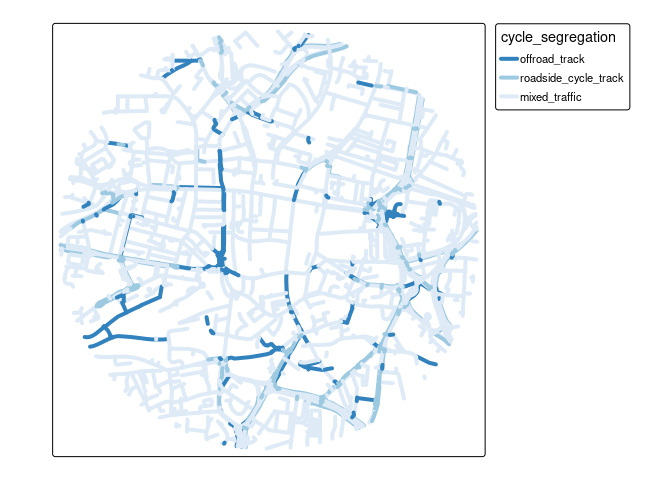
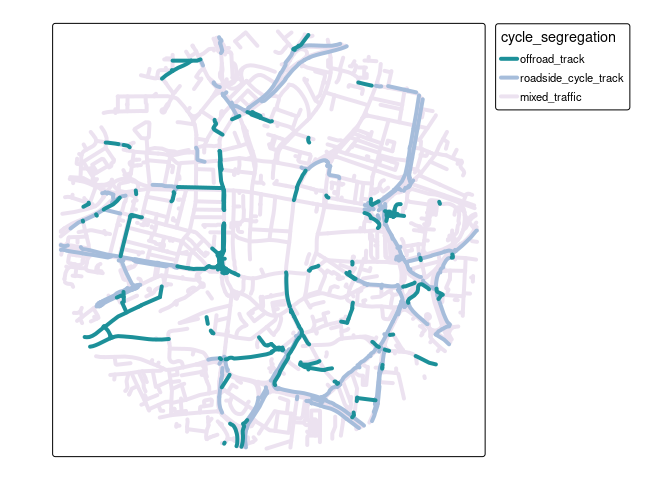
Change default vis settings
See https://github.com/r-tmap/tmap/issues/863 for underlying issue

diff --git a/README.md b/README.md
@@ -21,7 +21,20 @@ library(osmactive)
 
 ``` r
 library(dplyr)
+#> 
+#> Attaching package: 'dplyr'
+#> The following objects are masked from 'package:stats':
+#> 
+#>     filter, lag
+#> The following objects are masked from 'package:base':
+#> 
+#>     intersect, setdiff, setequal, union
 library(tmap)
+#> 
+#> Attaching package: 'tmap'
+#> The following object is masked from 'package:datasets':
+#> 
+#>     rivers
 leeds = zonebuilder::zb_zone("Leeds")
 leeds = leeds |>
   filter(circle_id == 1)
@@ -54,8 +67,8 @@ cycle_network_with_distance = distance_to_road(cycle_network, driving_network)
 #> give correct results for longitude/latitude data
 cycle_network_classified = classify_cycleways(cycle_network_with_distance)
 m = cycle_network_classified |>
-  arrange(cycle_segregation) |>
-  tm_shape() + tm_lines("cycle_segregation", lwd = 4, palette = "-Blues", popup.vars = c("name", "cycle_segregation", "distance_to_road", "maxspeed", "highway", "other_tags"))
+  arrange(desc(cycle_segregation)) |>
+  tm_shape() + tm_lines("cycle_segregation", lwd = 4, palette = "-PuBuGn", popup.vars = c("name", "cycle_segregation", "distance_to_road", "maxspeed", "highway", "other_tags"), plot.order = tm_plot_order("DATA"))
 #> tm_lines: Deprecated tmap v3 code detected. Code translated to v4
 m
 ```
